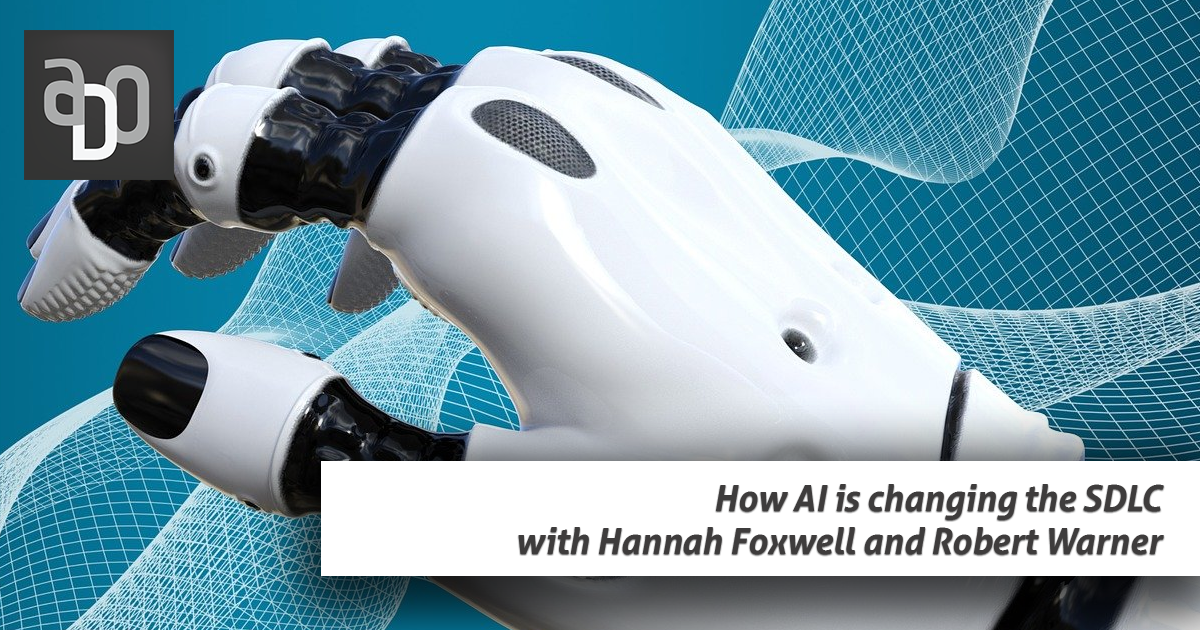
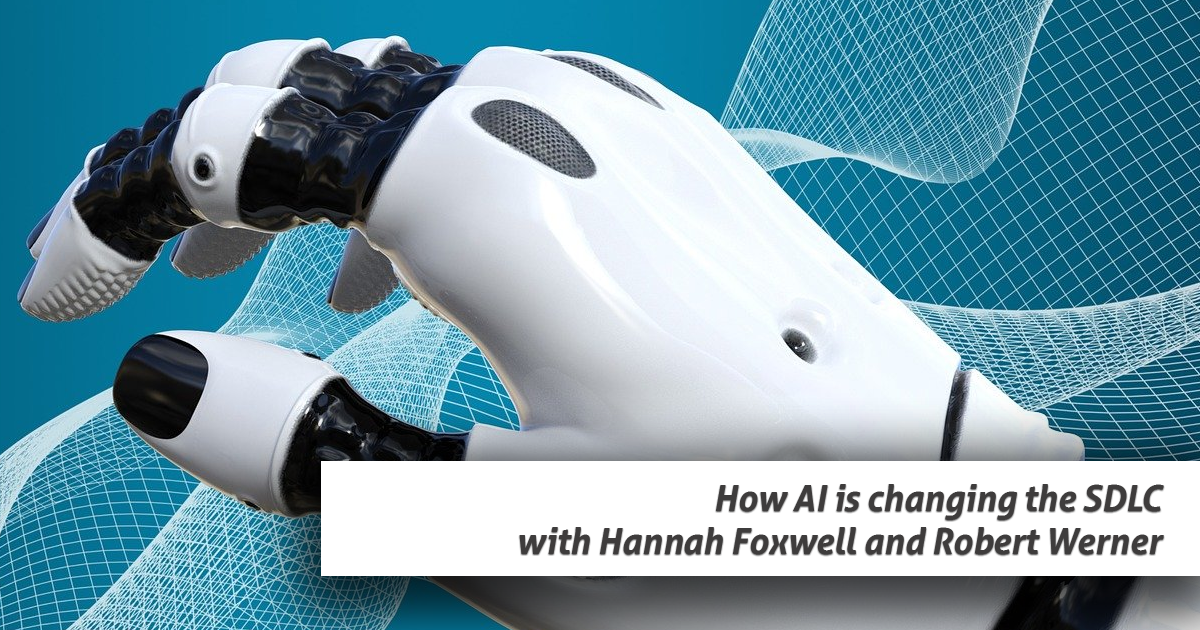
fix robert name

Changed region(s): [[0.0, 0.0302, 0.1542, 0.3016], [0.4317, 0.8444, 0.925, 0.8746]]

diff --git a/content/episode/ai-sdlc.md b/content/episode/ai-sdlc.md
@@ -1,5 +1,5 @@
 +++
-Description = "The software industry is experiencing another seismic shift. After decades of agile transformations, cloud migrations, and DevOps revolutions, we're now navigating the integration of AI into the software development lifecycle. But this time feels different—the pace is faster, the technology less mature, and the stakes feel higher. Matty Stratton sat down with Hannah Foxwell and Robert Warner to explore what this transformation means for developers, operations teams, and the organizations they serve."
+Description = "The software industry is experiencing another seismic shift. After decades of agile transformations, cloud migrations, and DevOps revolutions, we're now navigating the integration of AI into the software development lifecycle. But this time feels different—the pace is faster, the technology less mature, and the stakes feel higher. Matty Stratton sat down with Hannah Foxwell and Robert Werner to explore what this transformation means for developers, operations teams, and the organizations they serve."
 Date = 2025-10-01T08:36:13-05:00
 PublishDate = 2025-10-01T08:36:13-05:00 # this is the datetime for the when the episode was published. This will default to Date if it is not set. Example is "2016-04-25T04:09:45-05:00"
 podcast_file = "arrested-devops-podcast-episode205.mp3" # the name of the podcast file, after the media prefix.
@@ -7,7 +7,7 @@ podcast_duration = "00:39:51"
 podcast_bytes = "18200000" # the length of the episode in bytes
 episode_image = "episode/img/ai-sdlc.png"
 episode_banner = "episode/img/ai-sdlc-banner.png"
-guests = ["hfoxwell","rwarner"] # The names of your guests, based on the filename without extension.
+guests = ["hfoxwell","rwerner"] # The names of your guests, based on the filename without extension.
 sponsors = ["flyio","attribute"]
 episode = "205"
 title = "How AI is changing the SDLC with Hannah Foxwell and Robert Warner"
@@ -29,7 +29,7 @@ transcript = "/static/transcripts/ai-sdlc.md"
 
 Hannah Foxwell, who has spent over a decade in DevOps and platform engineering, draws a striking parallel to earlier transformations: "It used to be that testers didn't trust developers and ops didn't trust testers and there were all these silos. Now we're putting AI agents in the mix. Can we trust them? Should we trust them?"
 
-This isn't just déjà vu—it's a fundamental challenge that resurfaces with every major shift in how we build software. As Robert Warner points out, management had to give up control and push trust to the edges of organizations during the agile transformation. With cloud adoption came self-service and automation. Now, with AI, we're dealing with non-deterministic black boxes that we need to trust to be "right often enough."
+This isn't just déjà vu—it's a fundamental challenge that resurfaces with every major shift in how we build software. As Robert Werner points out, management had to give up control and push trust to the edges of organizations during the agile transformation. With cloud adoption came self-service and automation. Now, with AI, we're dealing with non-deterministic black boxes that we need to trust to be "right often enough."
 
 ## The Fluency Gap
 

diff --git a/content/guest/rwerner.md b/content/guest/rwerner.md
@@ -1,6 +1,6 @@
 +++
 Date = 2025-10-03T08:42:16-05:00
-title = "Robert Warner"
+title = "Robert Werner"
 Pronouns = ""
 Twitter = ""
 Website = ""
